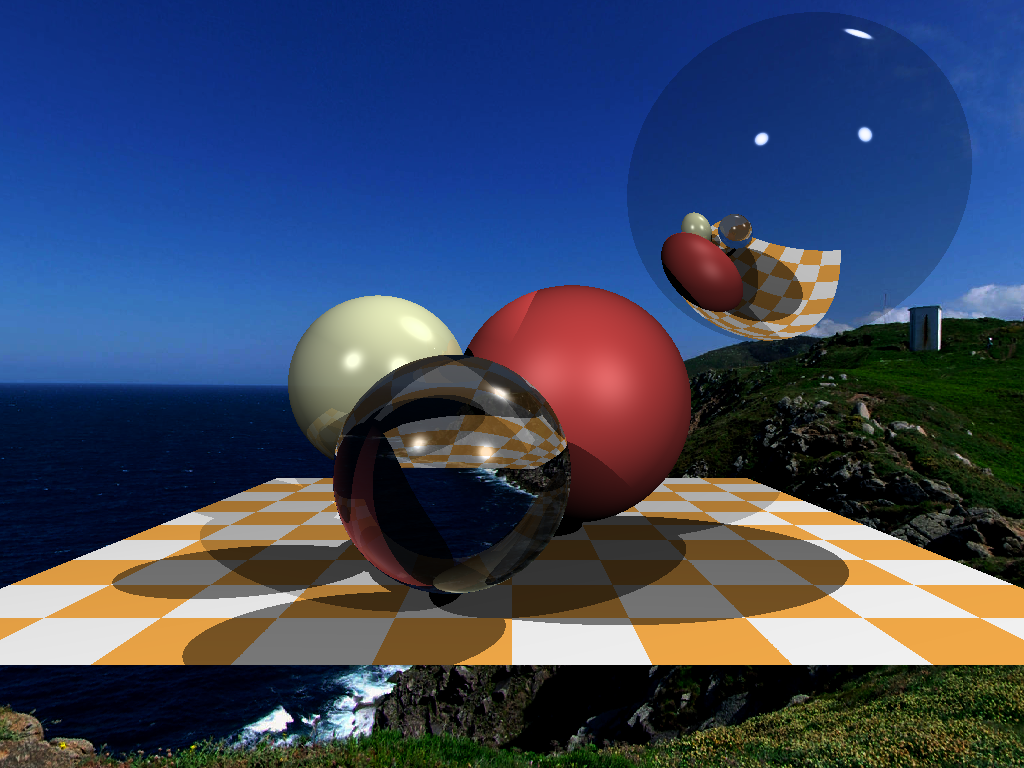
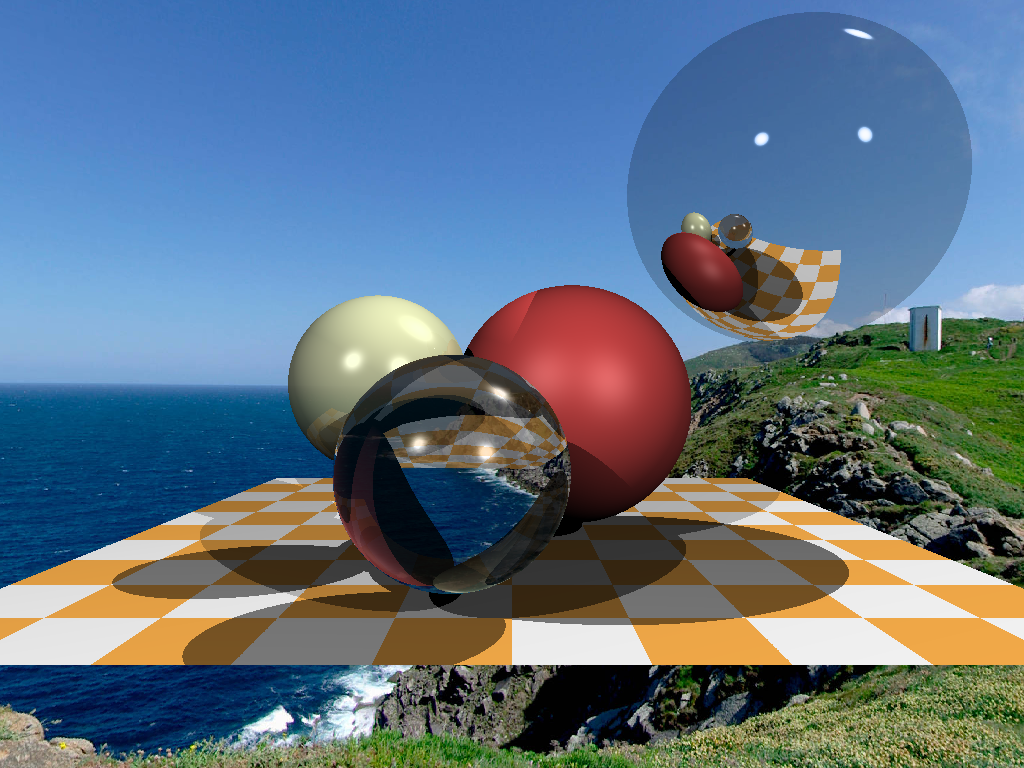
stb gives me bytes

diff --git a/src/main.cpp b/src/main.cpp
@@ -109,7 +109,7 @@ void render(const std::vector<Sphere>& spheres, std::vector<Light>& lights) {
     int env_width, env_height, channels;
     std::vector<vec3f> framebuffer(width*height);
 
-    float *data = stbi_loadf("envmap.jpg", &env_width, &env_height, &channels, 3);
+    auto* data = stbi_load("envmap.jpg", &env_width, &env_height, &channels, 0);
 
 #pragma omp parallel for
     for (size_t j = 0; j<height; j++) {
@@ -128,11 +128,12 @@ void render(const std::vector<Sphere>& spheres, std::vector<Light>& lights) {
             int px = std::min(env_width - 1, std::max(0, int(u * env_width)));
             int py = std::min(env_height - 1, std::max(0, int(v * env_height)));
             int index = (py * env_width + px) * 3;
+
             float r = data[index + 0];
             float g = data[index + 1];
             float b = data[index + 2];
 
-            framebuffer[i+j*width] = cast_ray(vec3f(0,0,0), dir, spheres, lights, vec3f(r, g, b));
+            framebuffer[i+j*width] = cast_ray(vec3f(0,0,0), dir, spheres, lights, vec3f(r, g, b) * (1/255.));
         }
     }
     stbi_image_free(data);
